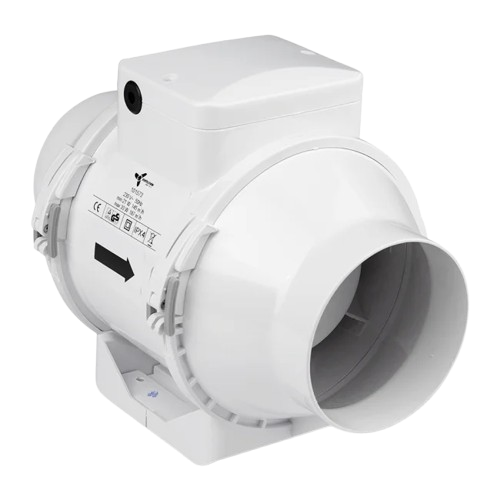
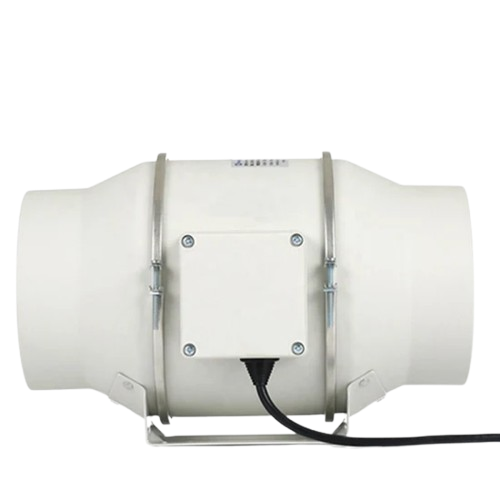
feat: grow tent visual overhaul — sonoflex, fan, filter
- Add sonoflex duct along tent top connecting to exhaust fan
- Replace exhaust fan with local inline duct fan image, positioned at
  sonoflex right end with overlap for connected look
- Replace carbon filter with new local image, positioned top-right interior
- Equipment layer dims on lights-off (brightness 0.15); fan stays full brightness
- Lamp dims on lights-off with 2s ease transition
- Lamp size +6%

diff --git a/app/hub/grow/[id]/page.tsx b/app/hub/grow/[id]/page.tsx
@@ -1270,23 +1270,22 @@ export default function ActiveGrowPage({ params }: { params: Promise<{ id: strin
           <image href={EQUIP_IMGS.tentBgDark} x="0" y="0" width="1000" height="750" preserveAspectRatio="xMidYMid slice"
             style={{ opacity: isLight ? 0 : 0.85, transition: 'opacity 2s ease' }} />
 
-          {/* ── Layer 2: Equipment ── */}
+          {/* ── Layer 2: Equipment — dims when lights off ── */}
+          <g style={{
+            filter: isLight ? 'brightness(1) saturate(1)' : 'brightness(0.15) saturate(0.3)',
+            transition: 'filter 2s ease',
+          }}>
 
-          {/* Carbon filter — rotated */}
-          {grow.setup.hasCarbonFilter && (() => {
-            const fx = isMobile ? 750 : TENT_LAYOUT.filter.x
-            const cx = fx + TENT_LAYOUT.filter.w / 2
-            const cy = TENT_LAYOUT.filter.y + TENT_LAYOUT.filter.h / 2
-            return (
-              <image
-                href={EQUIP_IMGS.filter}
-                x={fx} y={TENT_LAYOUT.filter.y}
-                width={TENT_LAYOUT.filter.w} height={TENT_LAYOUT.filter.h}
-                transform={`rotate(55,${cx},${cy})`}
-                style={{ filter: 'drop-shadow(-2px 0 8px rgba(0,0,0,0.5))' }}
-              />
-            )
-          })()}
+          {/* Carbon filter — top-right corner inside tent */}
+          <image
+            href={EQUIP_IMGS.filter}
+            x={isMobile ? 610 : 640}
+            y={115}
+            width={115}
+            height={115}
+            transform={`rotate(-30, ${640 + 57}, ${115 + 57})`}
+            style={{ filter: 'drop-shadow(-2px 2px 10px rgba(0,0,0,0.6))' }}
+          />
 
           {/* Circulation fan — left wall */}
           {grow.setup.hasCirculationFan && (
@@ -1298,44 +1297,39 @@ export default function ActiveGrowPage({ params }: { params: Promise<{ id: strin
             />
           )}
 
-          {/* Sonoflex duct — vertical duct from tent top down to carbon filter, behind exhaust fan.
-              Image is horizontal so we rotate 90°: translate(x+w, y) rotate(90) with swapped w/h */}
-          {grow.setup.hasExhaustFan && (() => {
-            // tx = right edge of the sonoflex slot (rotate pivots here so image goes left = toward tent interior)
-            const tx = isMobile
-              ? TENT_LAYOUT.sonoflex.x + TENT_LAYOUT.sonoflex.w - 30
-              : TENT_LAYOUT.sonoflex.x + TENT_LAYOUT.sonoflex.w
-            const ty = TENT_LAYOUT.sonoflex.y
-            return (
-              <image
-                href={EQUIP_IMGS.sonoflex}
-                x={0} y={0}
-                width={TENT_LAYOUT.sonoflex.h}
-                height={TENT_LAYOUT.sonoflex.w}
-                transform={`translate(${tx},${ty}) rotate(90)`}
-                style={{
-                  opacity: 0.92,
-                  filter: 'drop-shadow(-2px 0 8px rgba(0,0,0,0.7))',
-                }}
-              />
-            )
-          })()}
+          {/* Sonoflex duct — horizontal, laid across the tent top connecting filter to exhaust fan */}
+          {grow.setup.hasExhaustFan && (
+            <image
+              href={EQUIP_IMGS.sonoflex}
+              x={isMobile ? 510 : 520}
+              y={3}
+              width={308}
+              height={77}
+              style={{
+                opacity: 0.92,
+                filter: 'drop-shadow(0 2px 8px rgba(0,0,0,0.7))',
+              }}
+            />
+          )}
 
-          {/* Exhaust fan — top right, draggable fan-speed slider */}
+          </g>{/* end Layer 2 equipment */}
+
+          {/* Exhaust fan + badge — outside dimming group, always full brightness (fan runs independently of lights) */}
           {grow.setup.hasExhaustFan && (() => {
-            const ex = isMobile ? 740 : TENT_LAYOUT.exhaust.x
-            const ey = isMobile ? 8  : TENT_LAYOUT.exhaust.y
+            const sonoRight = (isMobile ? 530 : 540) + 308
+            const ex = sonoRight - 85
+            const ey = 3 + (77 - 127) / 2 - 19
             return (
               <image
                 href={EQUIP_IMGS.exhaust}
                 x={ex} y={ey}
-                width={TENT_LAYOUT.exhaust.w} height={TENT_LAYOUT.exhaust.h}
+                width={127} height={127}
                 style={{
-                  opacity: 0.88, cursor: fanSliderActive ? 'grabbing' : 'grab',
+                  opacity: 0.92, cursor: fanSliderActive ? 'grabbing' : 'grab',
                   touchAction: 'none',
                   filter: fanSliderActive
-                    ? 'drop-shadow(-2px 0 12px rgba(0,212,200,0.7))'
-                    : 'drop-shadow(-2px 0 6px rgba(0,0,0,0.5))',
+                    ? 'drop-shadow(0 0 12px rgba(0,212,200,0.7))'
+                    : 'drop-shadow(0 2px 6px rgba(0,0,0,0.6))',
                   transition: 'filter 0.15s',
                 }}
                 onMouseDown={(e) => { e.preventDefault(); startFanDrag(e.clientY) }}
@@ -1344,9 +1338,8 @@ export default function ActiveGrowPage({ params }: { params: Promise<{ id: strin
             )
           })()}
 
-          {/* Fan speed badge — left of exhaust, only when dragging */}
           {grow.setup.hasExhaustFan && (fanSliderActive || committedFanSpeed !== null) && (
-            <g transform={`translate(${(isMobile ? 740 : TENT_LAYOUT.exhaust.x) - 76},${(isMobile ? 8 : TENT_LAYOUT.exhaust.y) + 50})`}>
+            <g transform={`translate(${(isMobile ? 530 : 540) + 308 - 15 - 30}, ${3 + (77 - 85) / 2 + 90})`}>
               <rect x={0} y={0} width={62} height={40} rx={4}
                 fill="rgba(0,212,200,0.2)" stroke="rgba(0,212,200,0.6)" strokeWidth={0.5} />
               <text x={8} y={22} fontFamily="var(--font-orbitron), monospace" fontSize={13} fontWeight={700} fill="#00d4c8">
@@ -1386,7 +1379,6 @@ export default function ActiveGrowPage({ params }: { params: Promise<{ id: strin
             const lampH   = getLampSVGHeight()
             const lampX   = SVG_W / 2 - lampW / 2
             const glowId  = lt === 'led' ? 'glow-led' : lt === 'cfl' ? 'glow-cfl' : 'glow-hps'
-            const opacity = (lt === 'hps' || lt === 'cfl') ? 1 : (isLight ? 1 : 0.25)
             return (
               <>
                 <image
@@ -1396,10 +1388,10 @@ export default function ActiveGrowPage({ params }: { params: Promise<{ id: strin
                   style={{
                     cursor: lampSliderActive ? 'grabbing' : 'grab',
                     touchAction: 'none',
-                    filter: isLight ? `url(#${glowId})` : 'none',
-                    opacity,
+                    filter: isLight ? `url(#${glowId})` : 'brightness(0.15) saturate(0.3)',
+                    opacity: 1,
                     animation: lt !== 'led' && isLight ? 'hps-flicker 8s ease-in-out infinite' : 'none',
-                    transition: 'filter 0.15s, opacity 0.15s',
+                    transition: 'filter 2s ease, opacity 2s ease',
                     userSelect: 'none',
                   }}
                   onMouseDown={(e) => { e.preventDefault(); startLampDrag(e.clientY) }}

diff --git a/lib/grow/tentLayout.ts b/lib/grow/tentLayout.ts
@@ -23,9 +23,9 @@ export const TENT_LAYOUT = {
 export const EQUIP_IMGS = {
   tentBg:      'https://res.cloudinary.com/dbrbbjlp0/image/upload/v1775046694/tent-bg_tqvklk.png',
   tentBgDark:  'https://res.cloudinary.com/dbrbbjlp0/image/upload/v1775213761/tent-bg-dark_tdybst.png',
-  exhaust:     'https://res.cloudinary.com/dbrbbjlp0/image/upload/v1775046842/fan-exhaust_d6cc5c.png',
+  exhaust:     '/equip/fan/exhaust fan.png',
   circulation: 'https://res.cloudinary.com/dbrbbjlp0/image/upload/v1775046841/fan-circulation_q6zbyi.png',
-  filter:      'https://res.cloudinary.com/dbrbbjlp0/image/upload/v1775046888/carbon-filter_zk4axj.png',
+  filter:      '/equip/filter/filter.png',
   mediumSoil:  'https://res.cloudinary.com/dbrbbjlp0/image/upload/v1775046962/medium-soil_zbyoum.png',
   sonoflex:    '/equip/sonoflex/sonoflex.png',
 } as const
@@ -41,11 +41,11 @@ export function lampTopSVG(heightCm: number): number {
 
 // Lamp image dimensions in SVG units (+25% from original 120/160 × 200)
 export function getLampSVGWidth(lightType: string): number {
-  return lightType === 'cfl' ? 150 : 200
+  return lightType === 'cfl' ? 159 : 212
 }
 
 export function getLampSVGHeight(): number {
-  return 250
+  return 265
 }
 
 // Light image URL — HPS and CFL have separate on/off images